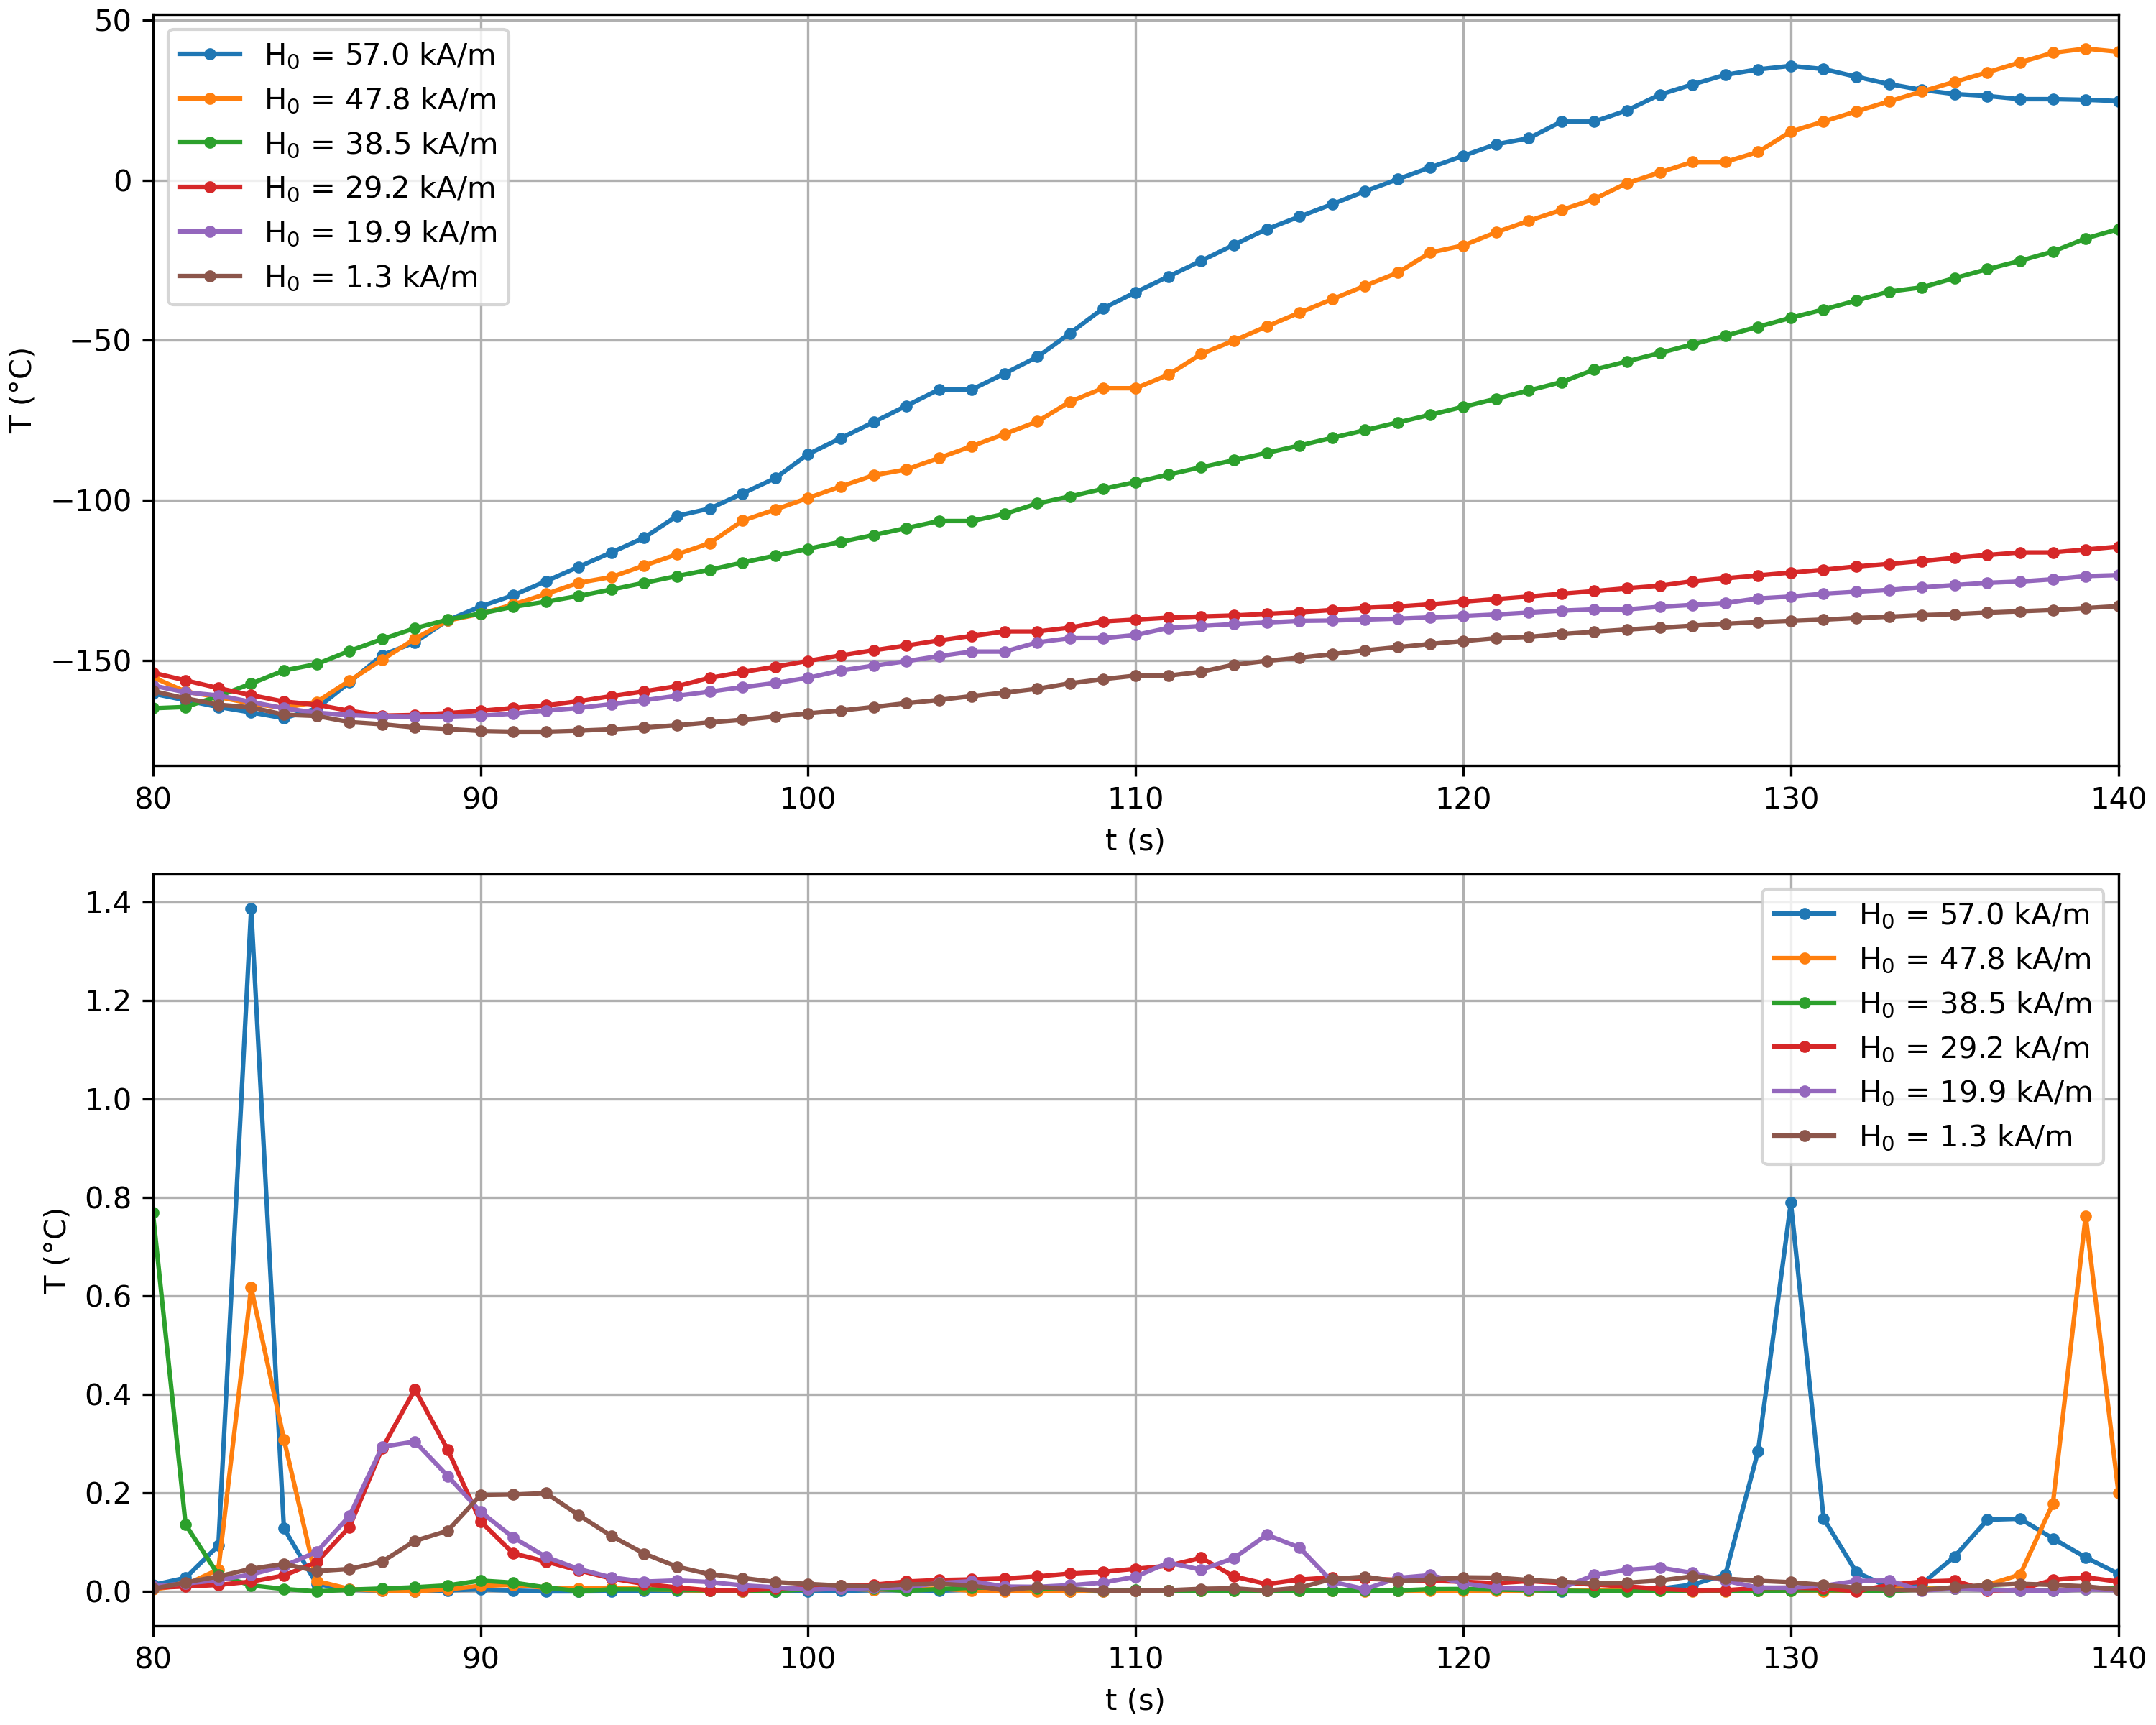
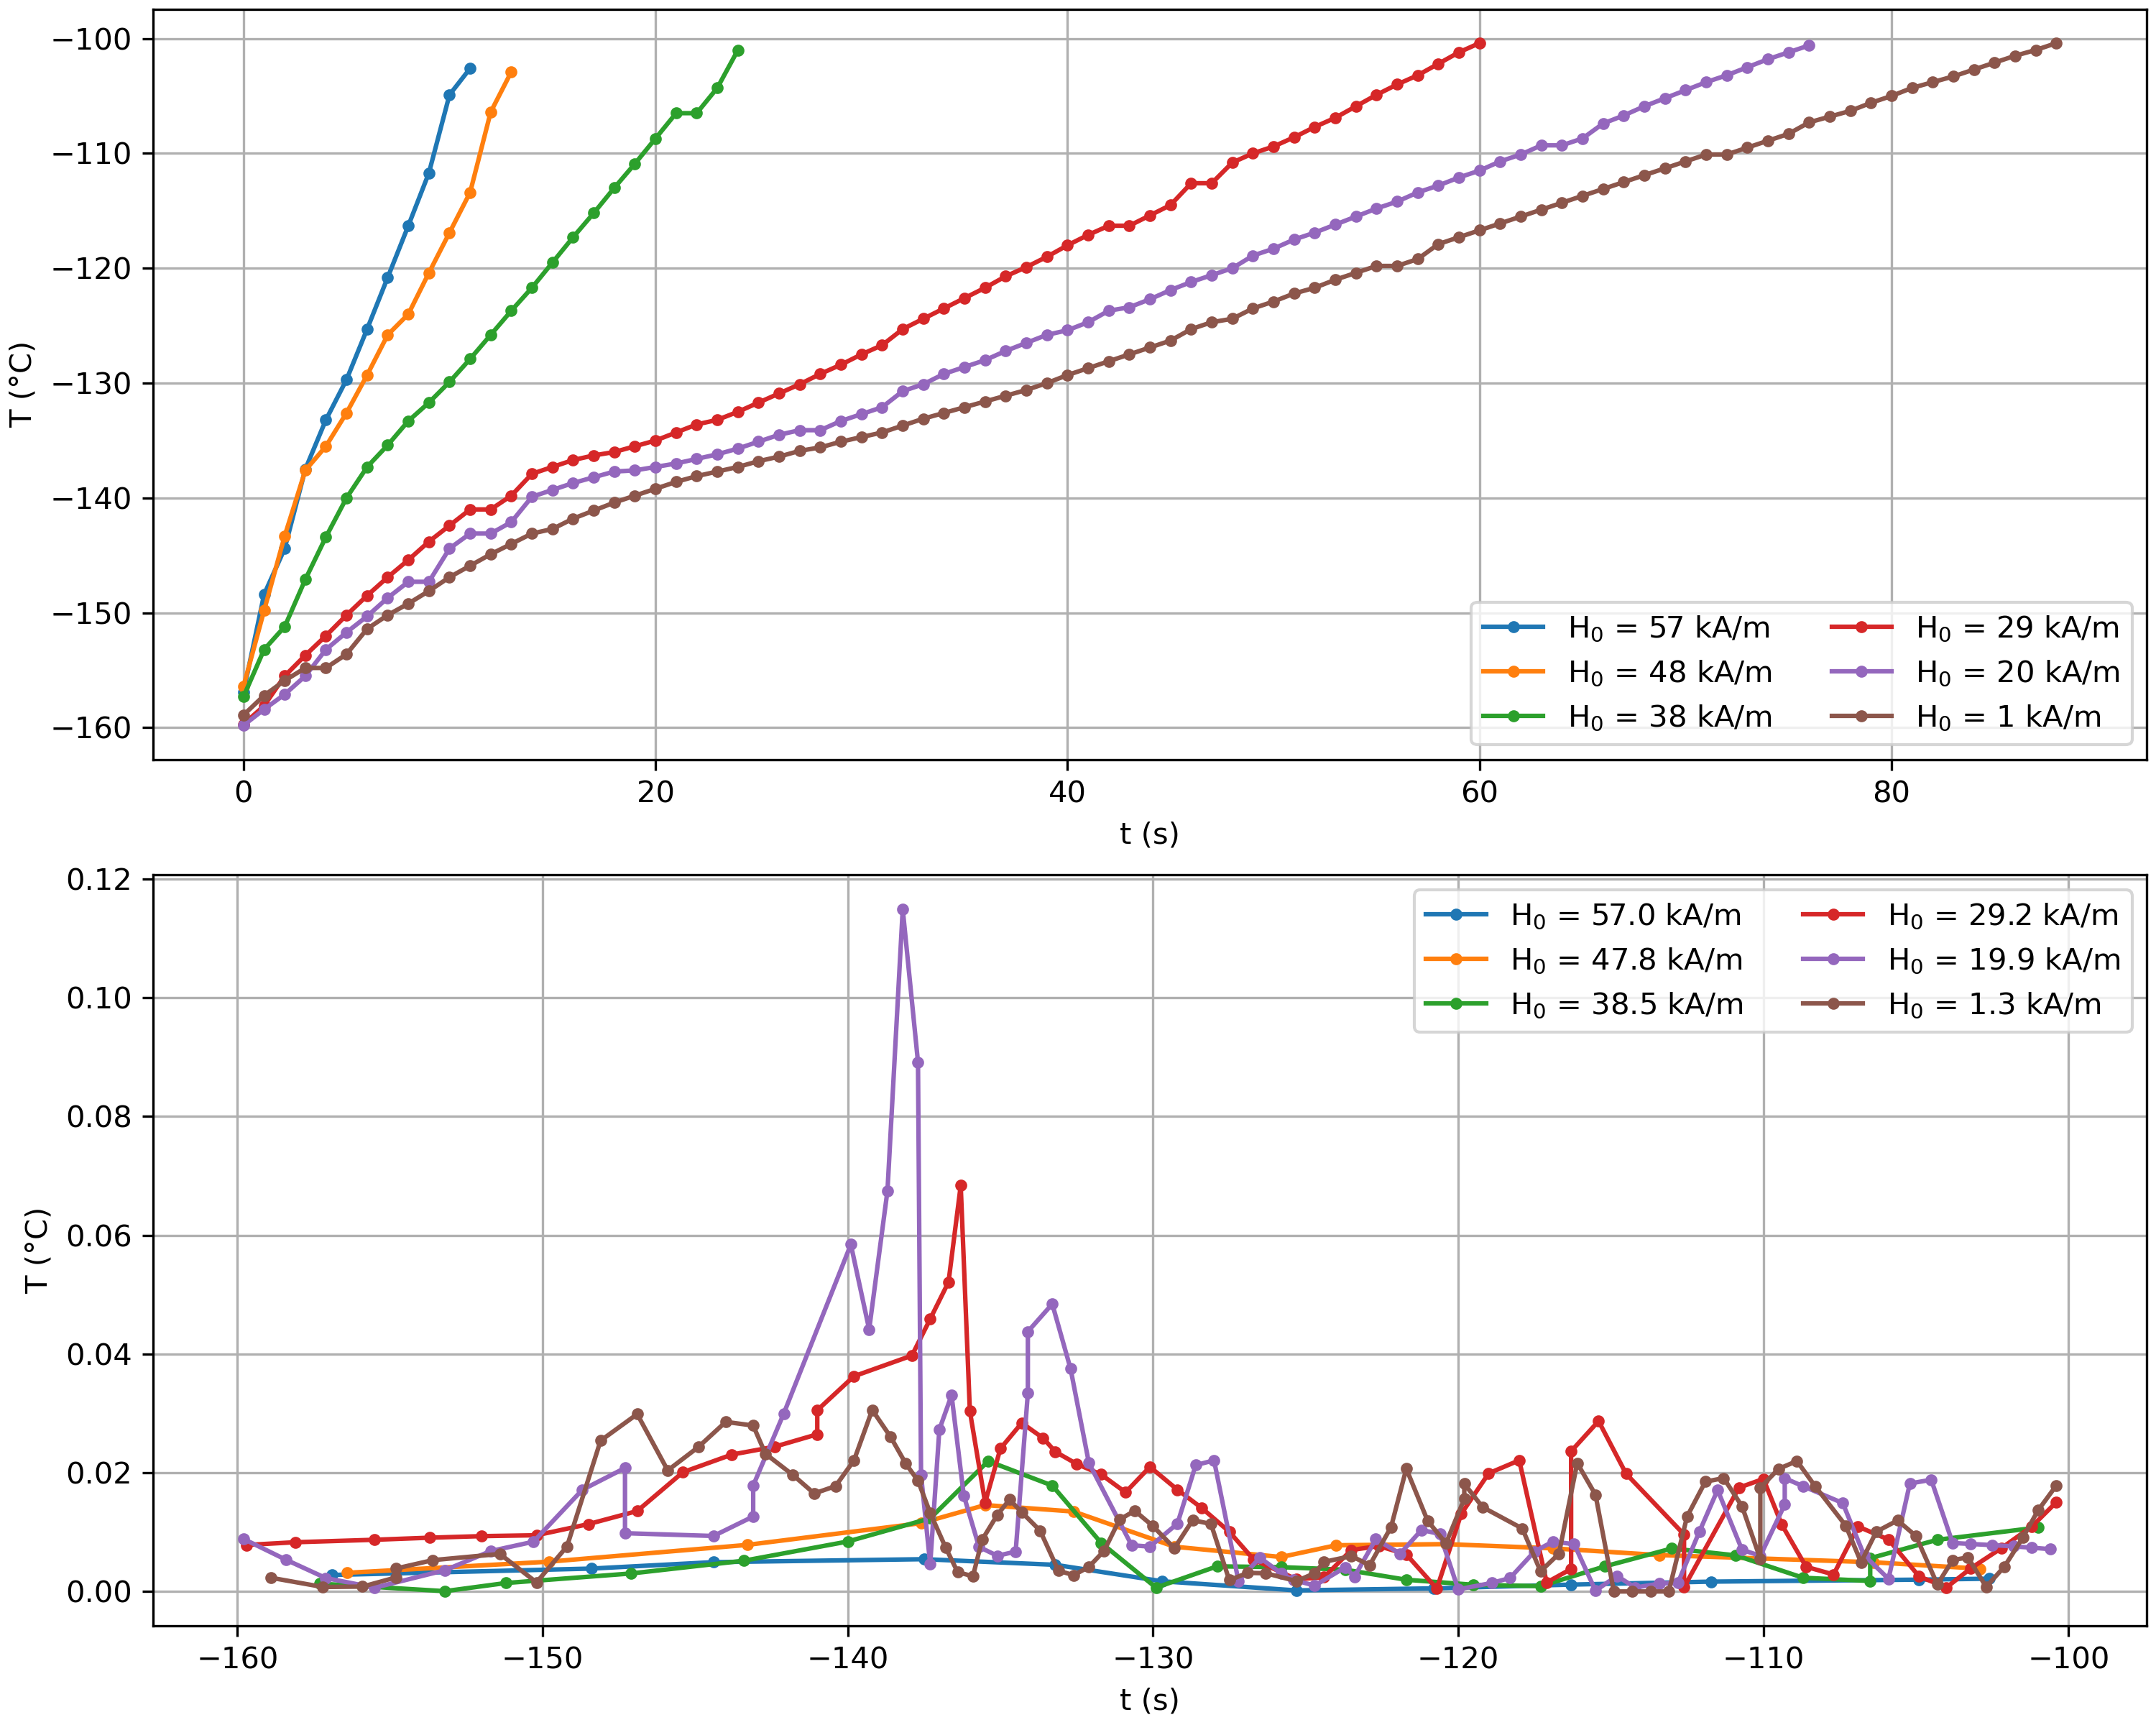
cuevatura on

diff --git a/comparativa_templogs.py b/comparativa_templogs.py
@@ -532,22 +532,36 @@ for n in [g,h]:
 plt.suptitle('EG 55% FF 45% - LN2 --> RF - Idc = [150, 050] dA')    
 plt.savefig('nueva_comparativa_templogs.png',dpi=300)
 # %%
+%matplotlib 
 fig,(ax,ax2) = plt.subplots(2,1,figsize=(10,8),constrained_layout=True)
 
 
 for i,p in enumerate(temps_500_EG55_FF45_2):
     _,time,temp, _ = lector_templog(p)
-    dT=savgol_filter(temp,window_length=11,polyorder=3,deriv=1,delta=1.0)
-    dTT=savgol_filter(temp,window_length=11,polyorder=3,deriv=2,delta=1.0)
+    indx_min=np.nonzero(temp==min(temp))[0][0]
+    indx_max=np.nonzero(temp==max(temp[indx_min:]))[0][0]
+    print(temp[indx_min],'-',temp[indx_max])
+    t = time[indx_min:indx_max]    
+    T = temp[indx_min:indx_max]
+
+
+    mask= (T > -160) & (T < -100)
+
+    T=T[mask]
+    t=t[mask]
+    dT=savgol_filter(T,window_length=11,polyorder=3,deriv=1,delta=1.0)
+    dTT=savgol_filter(T,window_length=11,polyorder=3,deriv=2,delta=1.0)
     curv=np.abs(dTT)/(1+dT**2)**1.5
-    ax.plot(time,temp,'.-',label=f'H$_0$ = {H0[i]:.1f} kA/m')
-    ax2.plot(time,curv,'.-',label=f'H$_0$ = {H0[i]:.1f} kA/m')   
+    #ax.set_xlim(0,250)
+    ax.plot(t-t[0],T,'.-',label=f'H$_0$ = {H0[i]:.0f} kA/m')
+    ax2.plot(T,curv,'.-',label=f'H$_0$ = {H0[i]:.1f} kA/m')   
+    # ax2.set_xlim(-170,-100)
 
 for a in [ax,ax2]:
-    a.set_xlim(80,140)
     a.set_xlabel('t (s)')
     a.set_ylabel('T (°C)')
     a.grid()
-    a.legend()
+    a.legend(ncol=2)
     
 plt.savefig('nueva2_comparativa_templogs.png',dpi=300)
+# %%